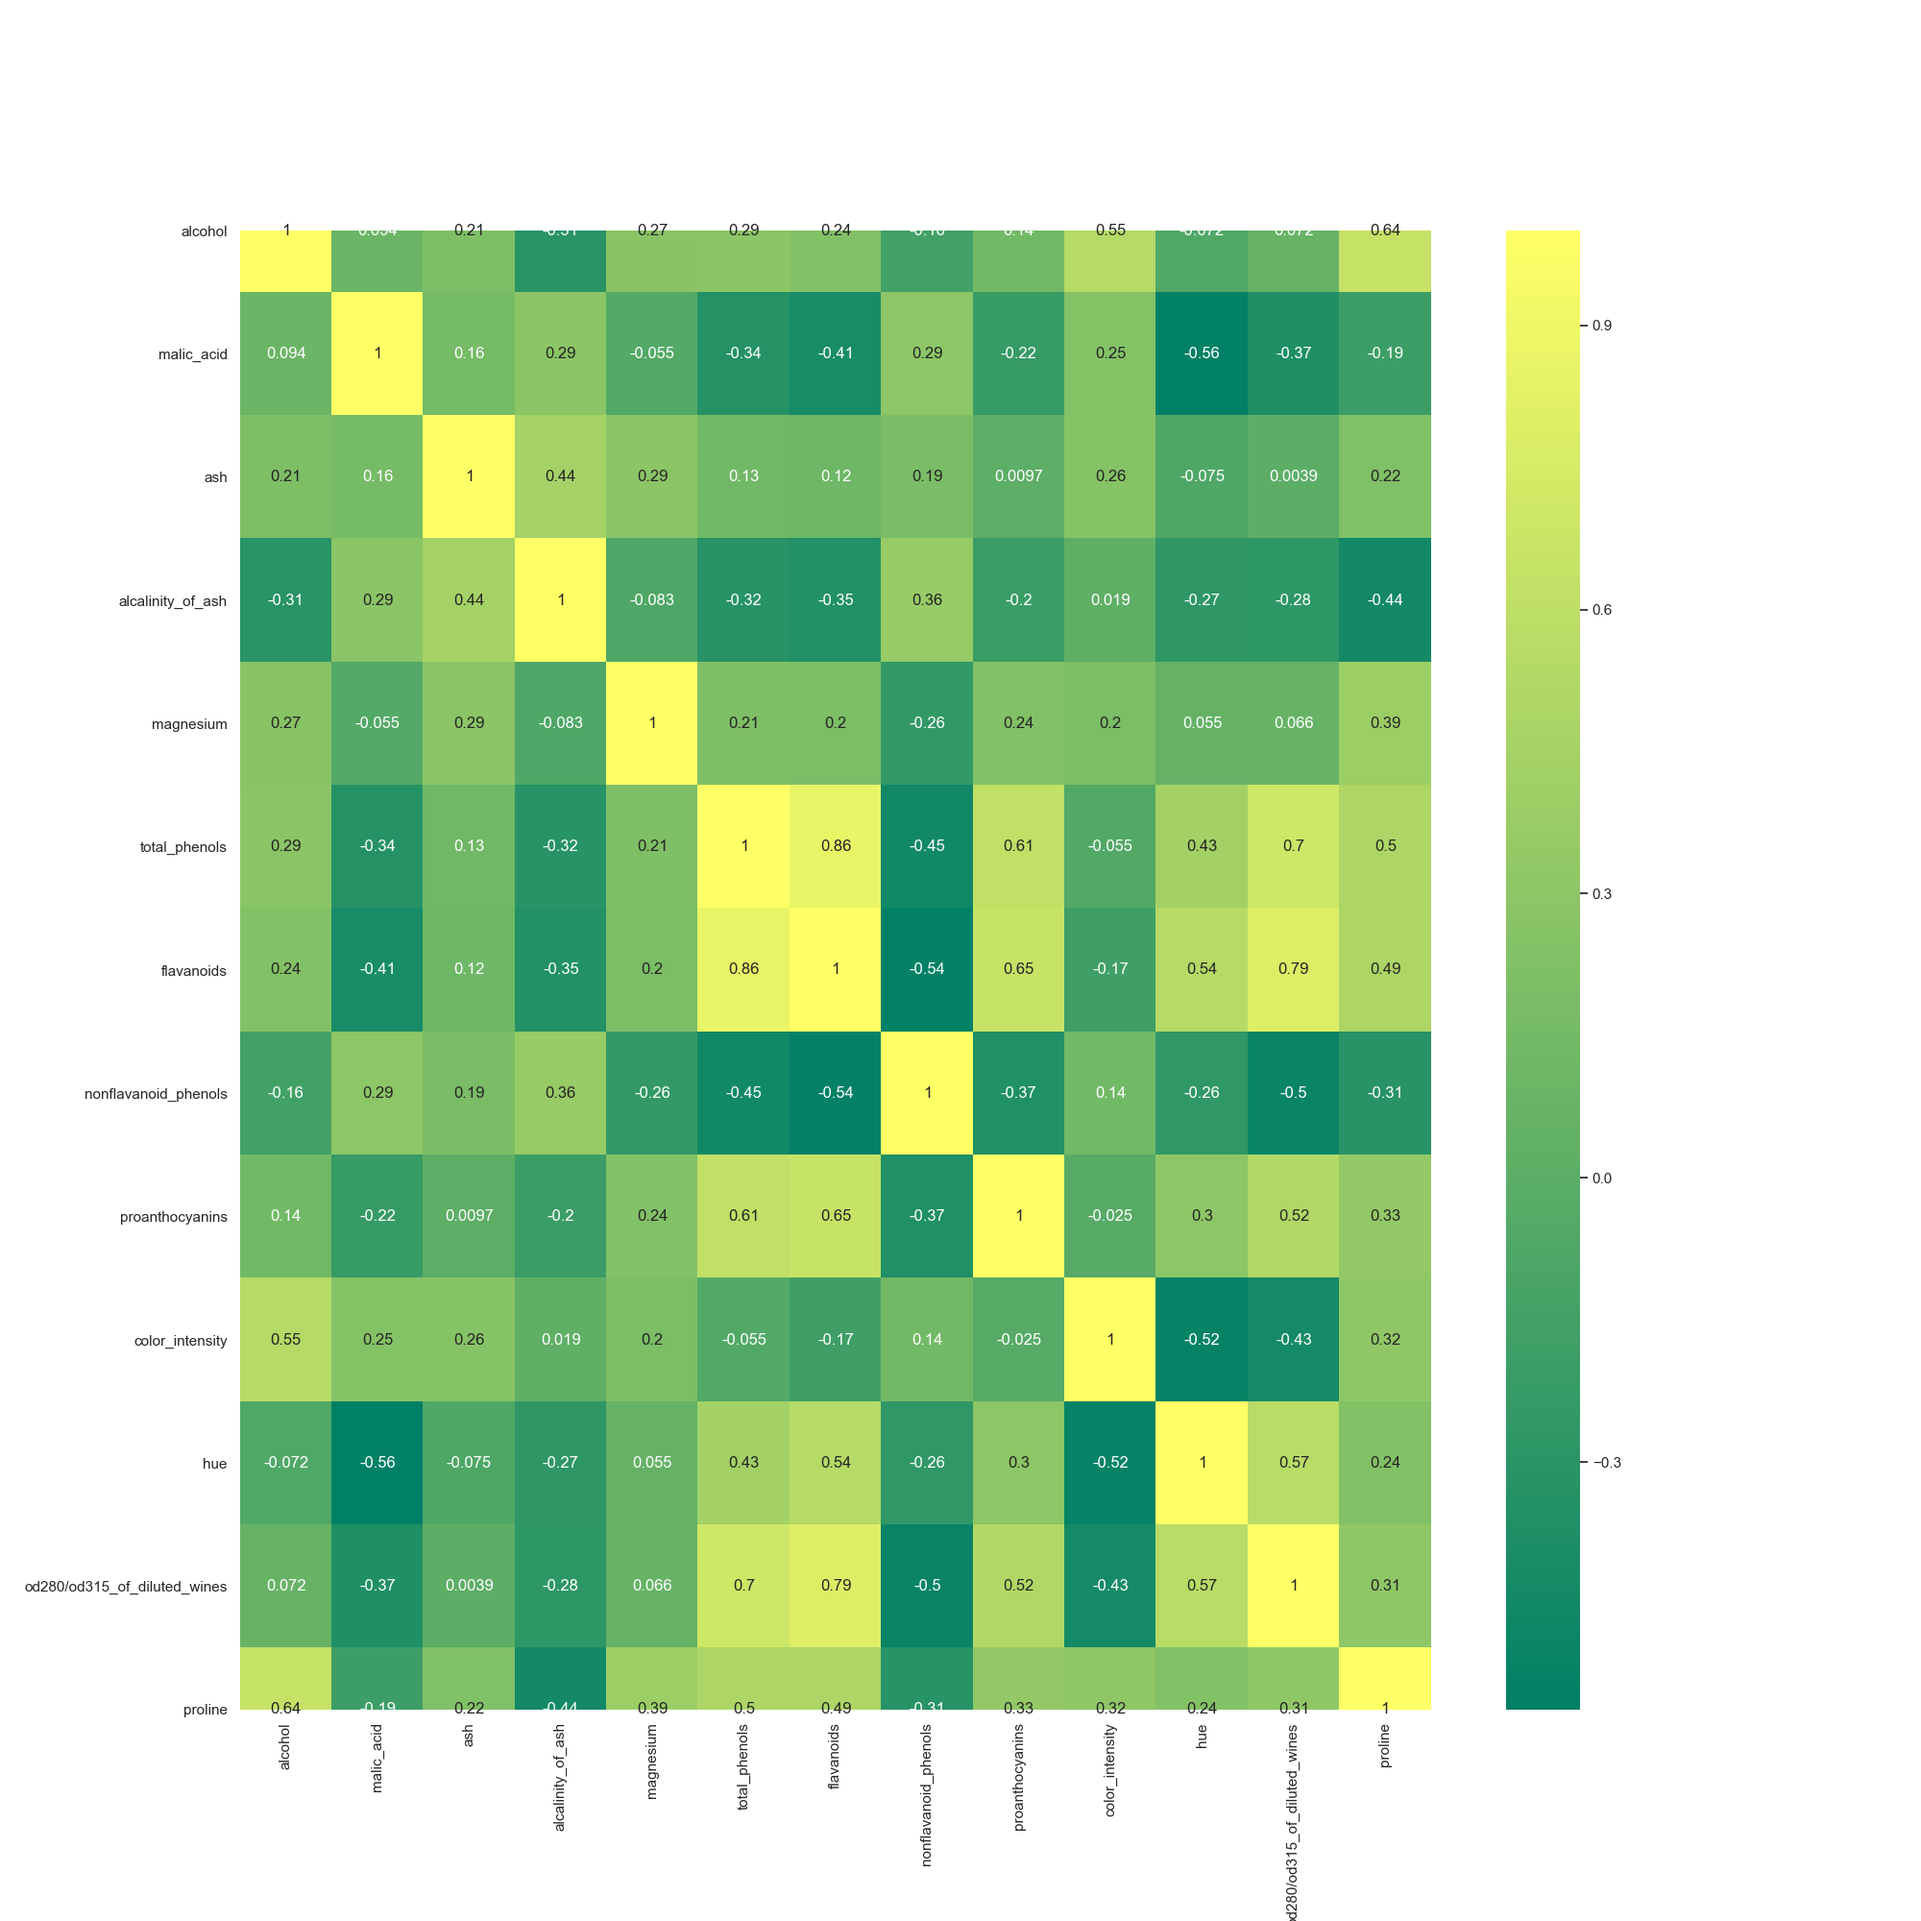
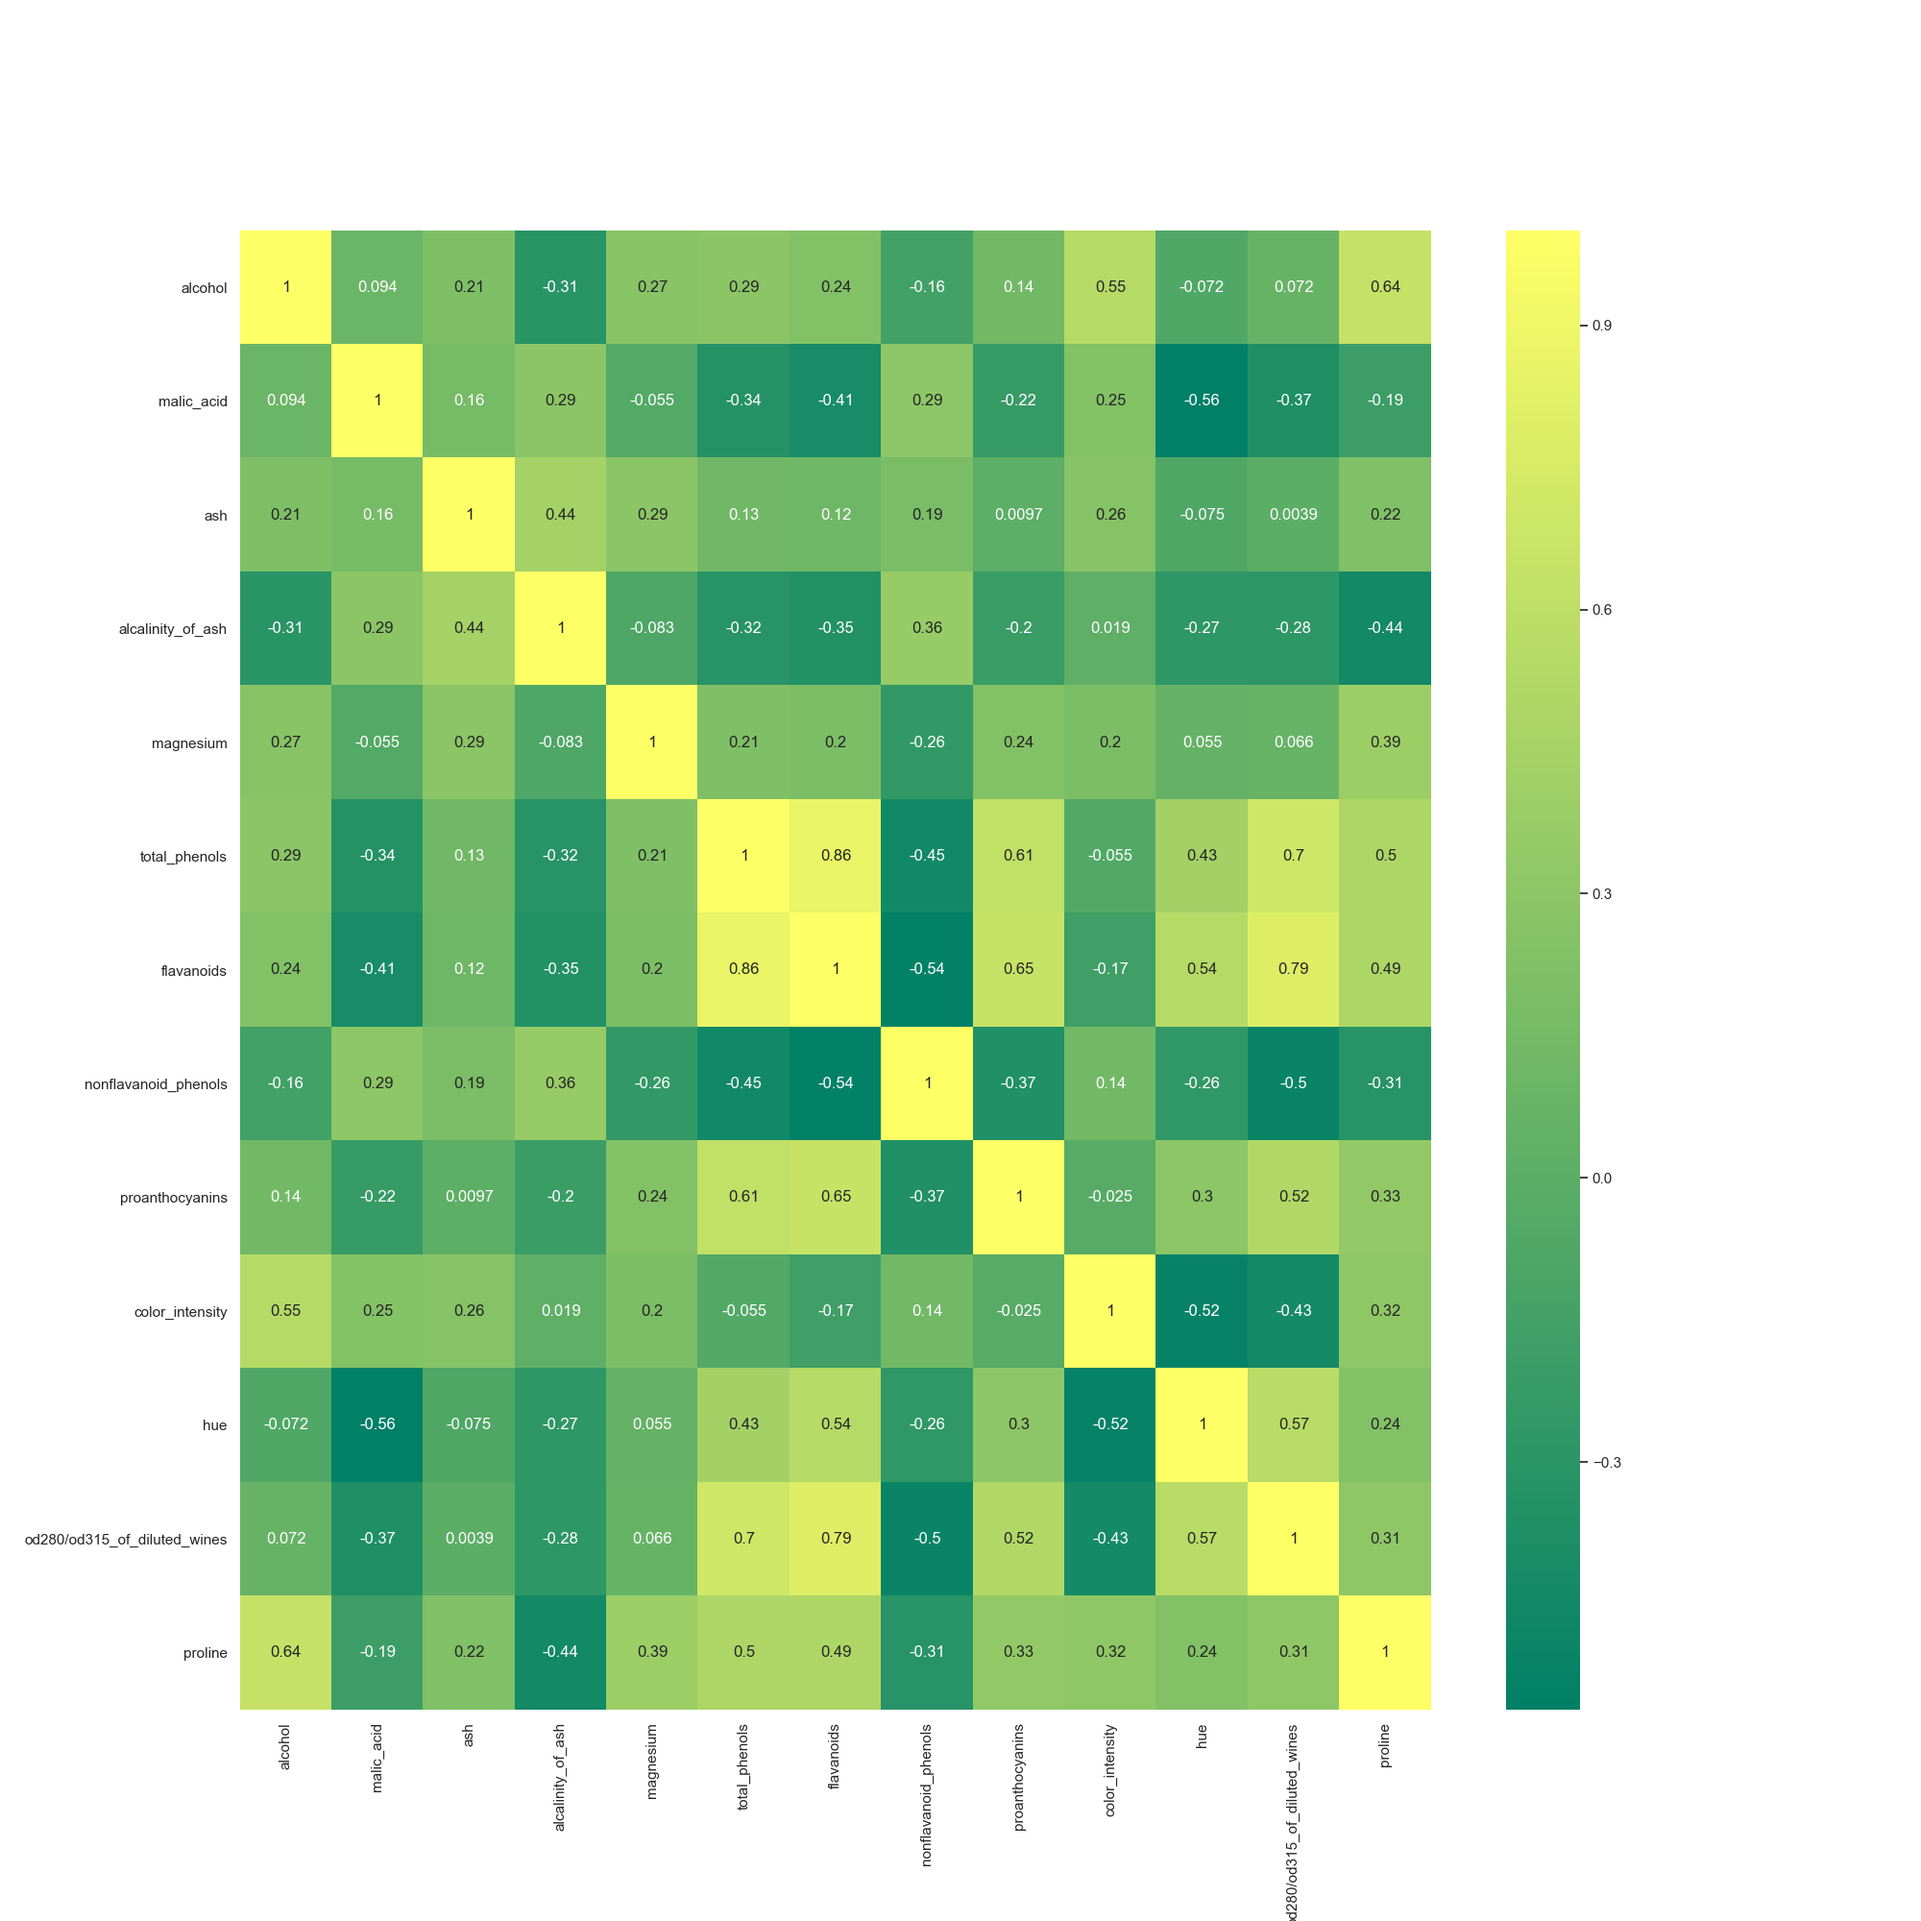
Graphs for Class features Violinplots for feature removal evaluation Histogram to more clearly see the effect of feature removal Code to generate the graphs

diff --git a/project.py b/project.py
@@ -6,14 +6,26 @@
 # SEE README.MD for analysis
 #
 # -----------------------------------------------
+import os
 import numpy as np
 import pandas as pd
 from sklearn.datasets import load_wine
 from sklearn.metrics import f1_score
 import seaborn as sea
 import matplotlib.pyplot as plt
+from sklearn.svm import SVC
 from sklearn.model_selection import train_test_split
+from sklearn.decomposition import PCA
+import matplotlib.pyplot as plt
+import matplotlib.gridspec as gridspec
+from sklearn.linear_model import LogisticRegression
 
+sample_count = 50 #50
+range_count = 20 #20
+correlation_coeficient = 0.05
+
+lr = SVC(kernel='linear', C=1)
+# lr = lr = LogisticRegression(multi_class='auto', solver='lbfgs', max_iter=4000)
 # performance print results
 def performance(lr, X_test, y_test):
     # Predicting the results for our test dataset
@@ -43,28 +55,36 @@ def performance(lr, X_test, y_test):
 
     print('------------------------------------------------------')
 
-def removeColumn(df, column):
-    print(f"--------------------- Dropping : {column}  -----------------------")
 
+def removeColumn(df, column, index):
+    # print(f"--------------------- Dropping : {column}  -----------------------")
+
+    # df = pd.DataFrame(data=data['data'],
+    #                   columns=data['feature_names'])
     df.drop(column, axis=1, inplace=True)
-    print(f"Columns : {df.columns}")
+    # print(f"Columns : {df.columns}")
+    for j in range(0, range_count):
+       average = 0.0
+       if df.size > 0:
+           for i in range(0, sample_count):
+                y = data.target
+                X_train, X_test, y_train, y_test = train_test_split(df, y, test_size=0.25)
+                lr.fit(X_train, y_train)
 
-    if df.size > 0:
-        y = data.target
-        X_train, X_test, y_train, y_test = train_test_split(df, y, test_size=0.35)
+                predicted_values = lr.predict(X_test)
+                average += f1_score(y_test, predicted_values, average="macro")
 
-        print('Classification Report for SVC')
-        from sklearn.svm import SVC
-        lr = SVC(kernel='linear', C = 1.0)
-        lr.fit(X_train, y_train)
+           print("Average Overall f1-score = ", average / sample_count)
+           x[j][index] = (average / sample_count)
 
-        performance(lr, X_test, y_test)
-        visualize(df)
+           # print(x)
+
+    # performance(lr, X_test, y_test)
+    # visualize(df)
+
 
 def visualize(df):
-    # Just for fun visualizing structure of dataset in 2D
-    from sklearn.decomposition import PCA
-    import matplotlib.pyplot as plt
+    # Visualizing structure of dataset in 2D
     if df.count().size > 2:
         pca = PCA(n_components=3)
         proj = pca.fit_transform(df)
@@ -73,13 +93,25 @@ def visualize(df):
         plt.show()
     plt.close()
 
-data = load_wine()
-df = pd.DataFrame(data=data['data'],
-                  columns=data['feature_names'])
+
+def reinitData(df):
+    # data = load_wine()
+    df = pd.DataFrame(data=data['data'],
+                      columns=data['feature_names'])
 
 
 # -----------------------------------------------
-# 1- visualization of the wine dataset correlation
+# 1- Load wine dataset
+# -----------------------------------------------
+
+raw_data = load_wine()
+df = pd.DataFrame(data=raw_data['data'],
+                  columns=raw_data['feature_names'])
+
+data = df
+
+# -----------------------------------------------
+# 2- visualization of the wine dataset correlation
 # -----------------------------------------------
 # sea.set()
 #
@@ -87,13 +119,53 @@ df = pd.DataFrame(data=data['data'],
 # sea.heatmap(df.corr(), annot=True, cmap='summer')
 # ax.set_xticklabels(df.columns)
 # ax.set_yticklabels(df.columns)
+# b, t = plt.ylim() # discover the values for bottom and top
+# b += 0.5 # Add 0.5 to the bottom
+# t -= 0.5 # Subtract 0.5 from the top
+# plt.ylim(b, t) # update the ylim(bottom, top) values
 # plt.savefig('plots//wine_correlation_heatmap.png')
 #
 # plt.clf()
 
+# for i in raw_data['feature_names']:
+#     sea.distplot(data['alcohol'][data.target==i],
+#                  kde=1,label='{}'.format(i))
+#
+# plt.legend()
+# plt.show()
+
+# We'll use Seaborn's .kdeplot() method so we can cleanly distinguish each class per feature
+
+# features = pd.DataFrame(data=raw_data['data'],columns=raw_data['feature_names'])
+# data = features
+# data['target']=raw_data['target']
+# data['class']=data['target'].map(lambda ind: raw_data['target_names'][ind])
+# data.head()
+#
+# os.makedirs('plots/class_feature/', exist_ok=True)
+#
+# for feature in raw_data['feature_names']:
+#     print(feature)
+#     fig, ax = plt.subplots(figsize=(5, 5))
+#     gs1 = gridspec.GridSpec(3,1)
+#     ax1 = plt.subplot(gs1[:-1])
+#     ax2 = plt.subplot(gs1[-1])
+#     sea.boxplot(x=feature, y='class', data=data, ax=ax2)
+#     sea.kdeplot(data[feature][data.target==0],ax=ax1,label='0')
+#     sea.kdeplot(data[feature][data.target==1],ax=ax1,label='1')
+#     sea.kdeplot(data[feature][data.target==2],ax=ax1,label='2')
+#     ax2.yaxis.label.set_visible(False)
+#     ax1.xaxis.set_visible(False)
+#
+#     if feature == 'od280/od315_of_diluted_wines':
+#         plt.savefig(f'plots/class_feature/od280_class.png')
+#     else:
+#         plt.savefig(f'plots/class_feature/{feature}_class.png')
+#
+#     plt.close(fig)
 
 # -----------------------------------------------
-# 2- cleanup of the wine dataset, extracting data
+# 3- cleanup of the wine dataset, extracting data
 # -----------------------------------------------
 
 correlation_list = []
@@ -103,7 +175,7 @@ j = 0
 
 for x in df.corr().values:
     for y in x:
-        if y < 0.1 and y > -0.1:
+        if y < correlation_coeficient and y > -correlation_coeficient:
             if y not in correlation_list:
                 correlation_list.append(y)
                 position = (i, j)
@@ -113,8 +185,8 @@ for x in df.corr().values:
     j = 0
     i = i + 1
 print("------------------------------------------------------------------")
-print(correlation_list) #values
-print(positions)        #tuples
+print(correlation_list)  # values
+print(positions)  # tuples
 
 corr = df.corr()
 
@@ -140,7 +212,7 @@ for entry in count:
     matches.append(match)
     column_position += 1
 
-#order by count
+# order by count
 matches.sort(key=lambda tup: tup[0], reverse=True)
 
 # we have a sorted list of tuples with count and column name for the less correlated entries
@@ -150,5 +222,137 @@ print(matches)
 # 3- classification regression on the wine dataset
 # -----------------------------------------------
 
-# for column in df.columns:
-#     removeColumn(df, column)
+X = raw_data.data
+y = raw_data.target
+
+data = raw_data
+
+# Splitting features and target datasets into: train and test
+# initial overall-f1 with no dropped feature
+all = []
+average = 0.0
+for i in range(0, range_count):
+    average = 0.0
+    for j in range(0, sample_count):
+        X_train, X_test, y_train, y_test = train_test_split(df, y, test_size=0.25)
+        lr.fit(X_train, y_train)
+        predicted_values = lr.predict(X_test)
+        average += f1_score(y_test, predicted_values, average="macro")
+
+    print("Average Overall f1-score = ", average / sample_count)
+    all.append(average/sample_count)
+
+print(all)
+count = 0.0
+for value in all:
+    count = count + value
+print("Total Average Overall f1-score = ", count / range_count)
+
+    # performance(lr, X_test, y_test)
+    # visualize(df)
+
+# for i in range(0, range_count):
+#     all[i] = max
+#
+# print(all)
+# visualize(df)
+
+# single removal of features
+# all_features = []
+# x = np.zeros((range_count, 13))
+# print("single removal of features")
+# count = 0
+# for column in matches:
+#    df = pd.DataFrame(data=data['data'],
+#                   columns=data['feature_names'])
+#    print("--------------------- Dropping feature : " + column[1])
+#    removeColumn(df, column[1], count)
+#    all_features.append(f'{column[1]}')
+#    count += 1
+#
+# single_removal_results = pd.DataFrame(data=x,
+#                        columns=all_features)
+#
+# print(single_removal_results)
+#
+# single_removal_results.insert(0,'All', all)
+#
+# tsint = single_removal_results.interpolate(method='cubic')
+#
+# fig, ax = plt.subplots(figsize=(20,10))
+# pal = sea.cubehelix_palette(8, rot=-.10, dark=.3)
+# ax.set_xticklabels(df.columns, rotation=45)
+# # Show each distribution with both violins and points
+# sea.violinplot(data=tsint, palette=pal, inner="points")
+#
+# os.makedirs('plots/Violinplots/', exist_ok=True)
+# plt.savefig(f'plots/Violinplots/Single_removal_features.png', dpi=300)
+#
+# fig, axes = plt.subplots(1, 1, figsize=(20, 10))
+# axes.plot(tsint)
+# axes.set_title('Single feature removal')
+# axes.set_xlabel('Sample #')
+# axes.set_ylabel('f1-score')
+# axes.legend(all_features)
+#
+# plt.savefig(f'plots/Single_removal_features.png', dpi=300)
+
+# for feature in matches incremental removal of features
+# print("incremental removal of features")
+features = []
+x = np.zeros((range_count, 7))
+count = 0
+df = pd.DataFrame(data=data['data'],
+                  columns=data['feature_names'])
+droppingFeatures = ""
+for column in matches[0:7]:
+    droppingFeatures = droppingFeatures + ", " + column[1]
+    print("--------------------- Dropping features : " + droppingFeatures)
+    removeColumn(df, column[1], count)
+    count += 1
+    features.append(f'{column[1]}')
+
+incremental_removal_results = pd.DataFrame(data=x,
+                       columns=features)
+
+incremental_removal_results.insert(0,'All', all)
+
+print(incremental_removal_results)
+
+tsint = incremental_removal_results.interpolate(method='cubic')
+
+# Use violin plot to get a custom sequential palette
+fig, ax = plt.subplots(figsize=(10,10))
+pal = sea.cubehelix_palette(8, rot=-.7, dark=.3)
+ax.set_xticklabels(df.columns, rotation=45)
+# Show each distribution with both violins and points
+sea.violinplot(data=tsint, palette=pal, inner="points")
+os.makedirs('plots/Violinplots/', exist_ok=True)
+plt.savefig(f'plots/Violinplots/Incremental_removal_features.png', dpi=300)
+plt.close()
+
+fig, axes = plt.subplots(1, 1, figsize=(20, 10))
+axes.plot(tsint)
+axes.set_title('Incremental feature removal')
+axes.set_xlabel('Sample #')
+axes.set_ylabel('f1-score')
+axes.legend(features)
+
+plt.savefig(f'plots/Incremental_removal_features.png', dpi=300)
+plt.close()
+
+# bar plot to show the mean value of each features
+mean = tsint.mean()
+print(mean)
+
+fig, axes = plt.subplots(1, 1, figsize=(5, 5))
+plt.ylim(0.91, 0.98)
+axes.set_xticklabels(tsint.columns, rotation=45)
+axes.set_title('Histogram mean feature removal')
+axes.set_xlabel('Feature')
+axes.set_ylabel('f1-score')
+mean.plot.bar()
+
+plt.savefig(f'plots/Histogram_mean_values.png', dpi=300)
+
+plt.close()
